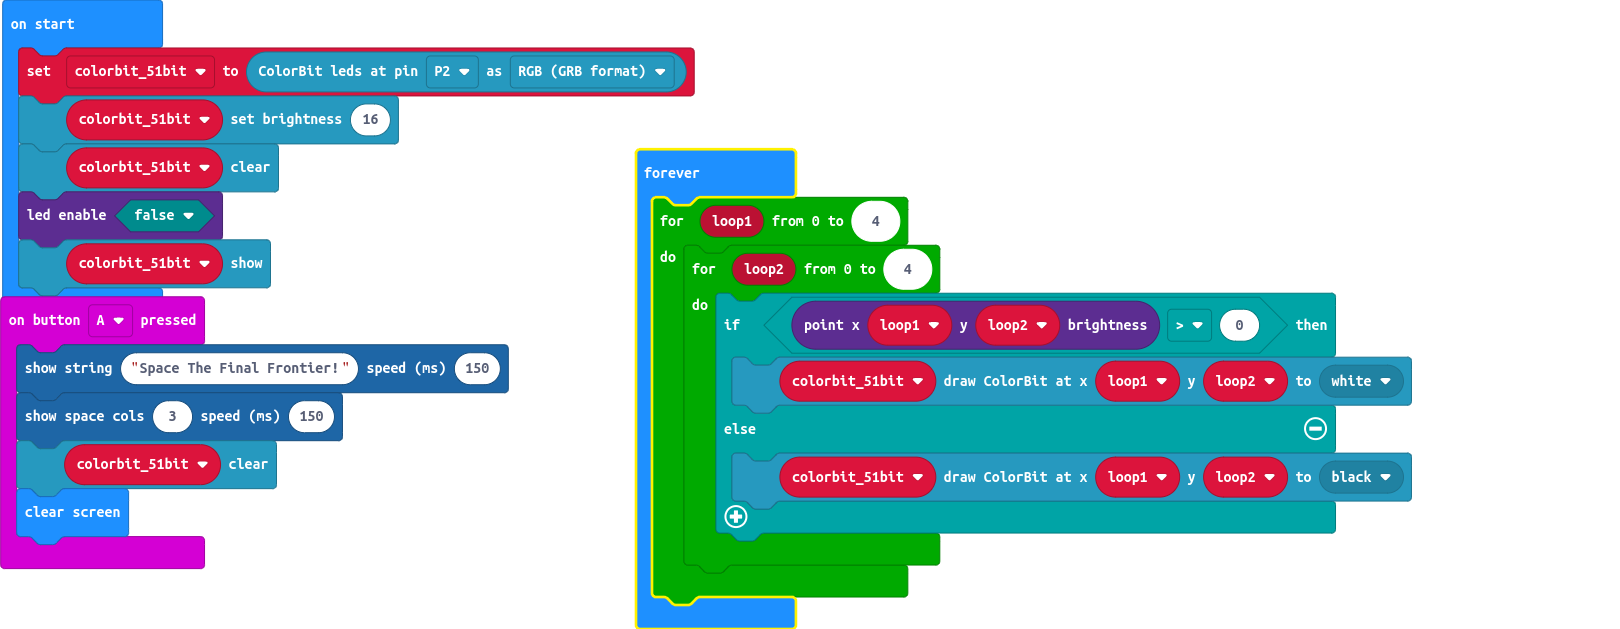
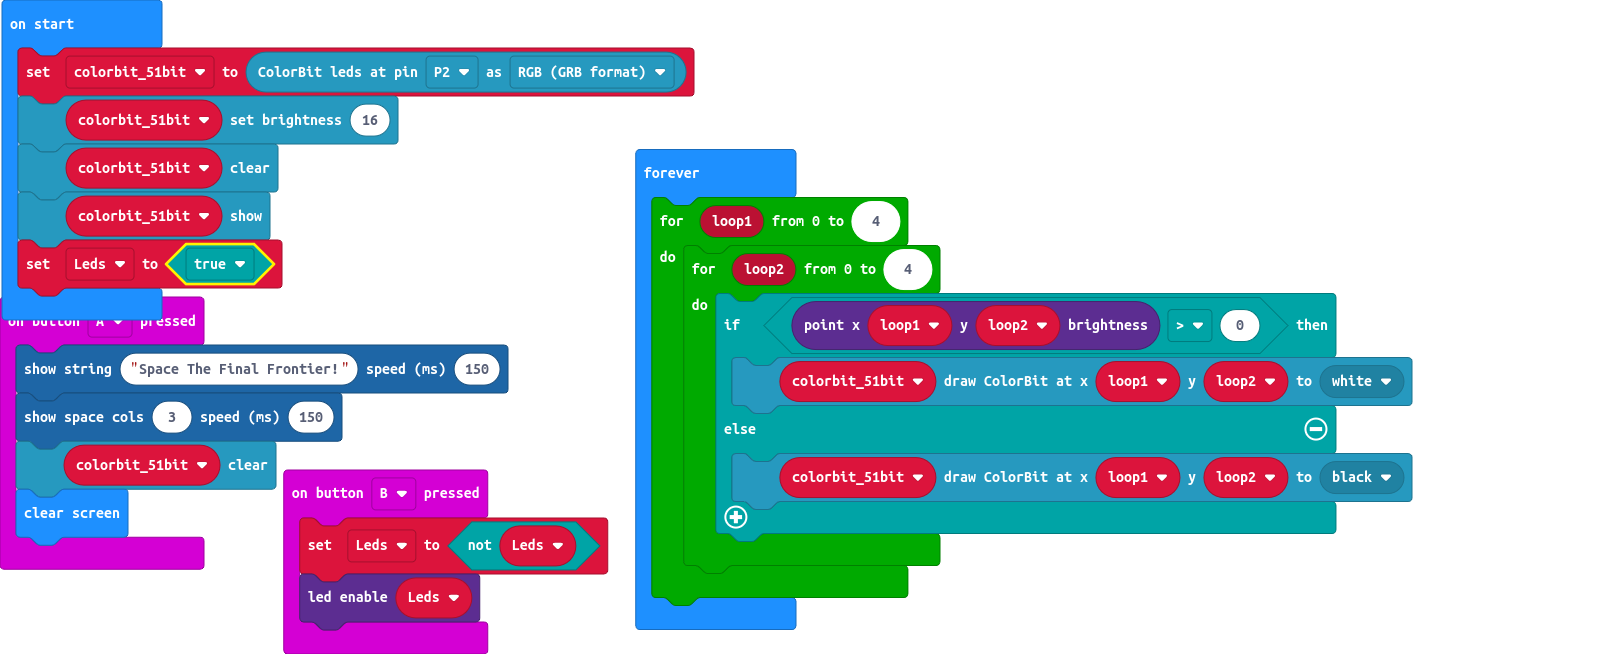
use B to enable/disable Micro:Bit Display

Changed region(s): [[0.0, 0.0302, 0.8951, 1.0]]

diff --git a/main.ts b/main.ts
@@ -4,12 +4,17 @@ input.onButtonPressed(Button.A, function () {
     colorbit_51bit.clear()
     basic.clearScreen()
 })
+input.onButtonPressed(Button.B, function () {
+    Leds = !(Leds)
+    led.enable(Leds)
+})
+let Leds = false
 let colorbit_51bit: colorbit.Strip = null
 colorbit_51bit = colorbit.initColorBit(DigitalPin.P2, BitColorMode.RGB)
 colorbit_51bit.setBrightness(16)
 colorbit_51bit.clear()
-led.enable(false)
 colorbit_51bit.show()
+Leds = true
 basic.forever(function () {
     for (let loop1 = 0; loop1 <= 4; loop1++) {
         for (let loop2 = 0; loop2 <= 4; loop2++) {
